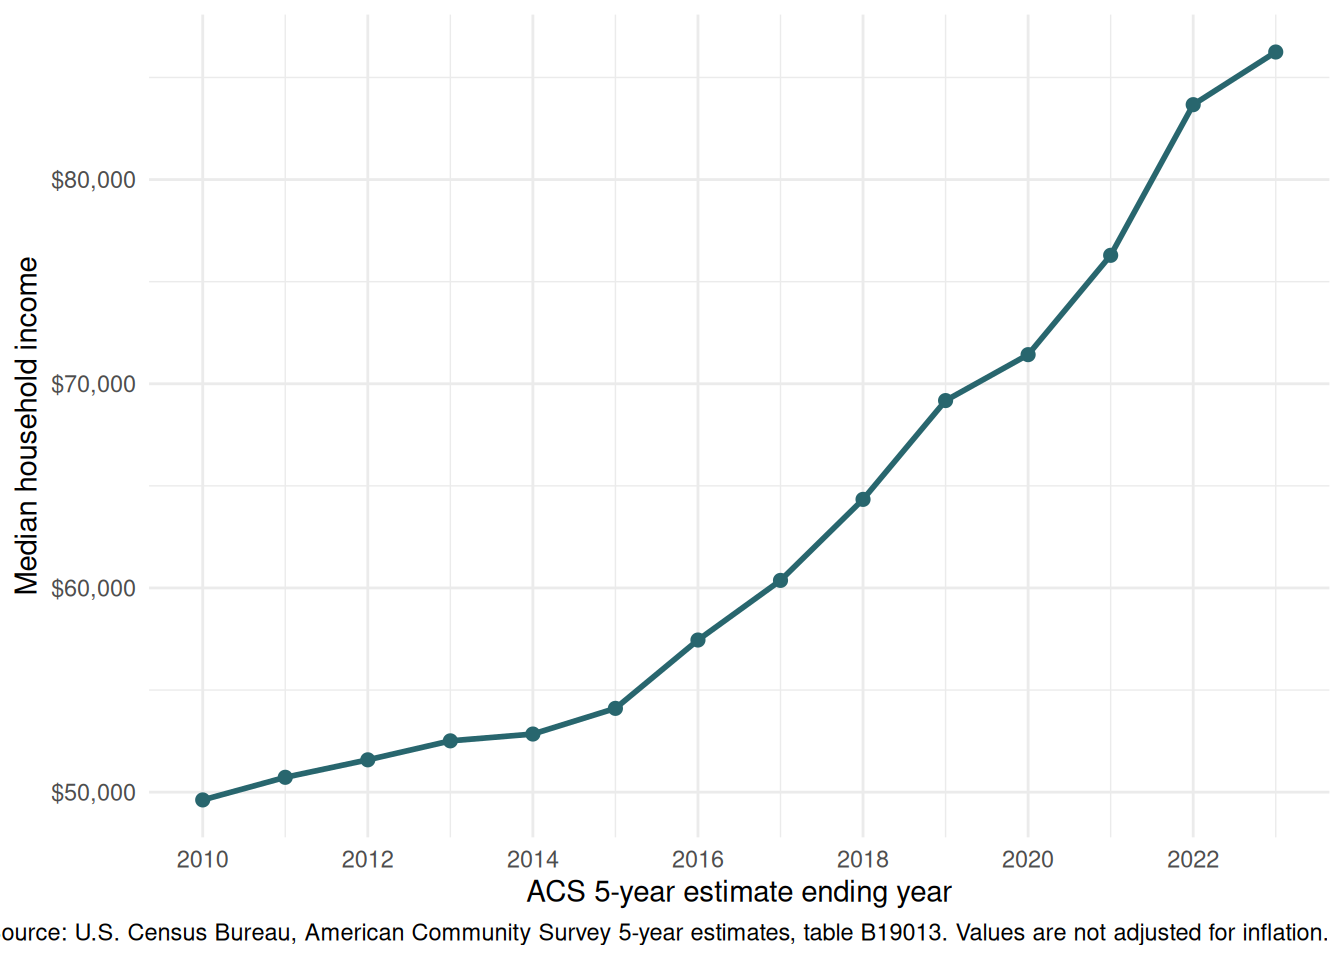
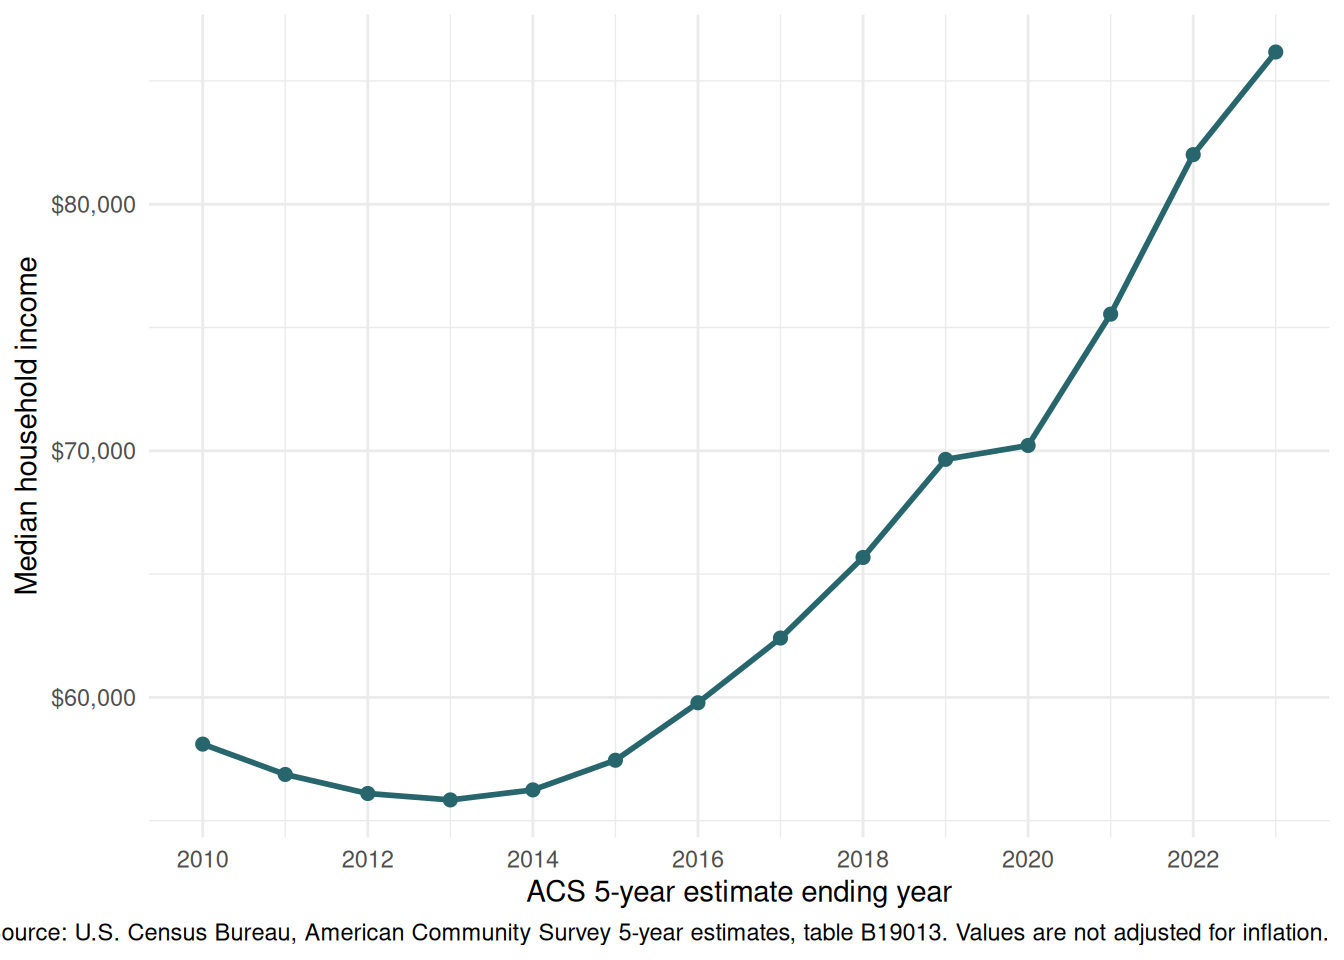
Built site for gh-pages

diff --git a/index.html b/index.html
@@ -7,7 +7,7 @@
 <meta name="viewport" content="width=device-width, initial-scale=1.0, user-scalable=yes">
 
 
-<title>Has household income changed in Multnomah County? – Census Maps</title>
+<title>Has household income changed in Collier County? – Census Maps</title>
 <style>
 /* Default styles provided by pandoc.
 ** See https://pandoc.org/MANUAL.html#variables-for-html for config info.
@@ -157,7 +157,7 @@ pre > code.sourceCode > span > a:first-child::before { text-decoration: underlin
 
 <header id="title-block-header" class="quarto-title-block default">
 <div class="quarto-title">
-<h1 class="title">Has household income changed in Multnomah County?</h1>
+<h1 class="title">Has household income changed in Collier County?</h1>
 </div>
 
 
@@ -174,7 +174,7 @@ pre > code.sourceCode > span > a:first-child::before { text-decoration: underlin
 </header>
 
 
-<p>Median household income is one way to track how a community’s finances change. This small project looks at Multnomah County, Oregon, using one ACS estimate for each year from 2010 through 2023.</p>
+<p>Median household income is one way to track how a community’s finances change. This small project looks at Collier County, Florida, using one ACS estimate for each year from 2010 through 2023.</p>
 <div class="cell">
 <div class="code-copy-outer-scaffold"><div class="sourceCode cell-code" id="cb1"><pre class="sourceCode r code-with-copy"><code class="sourceCode r"><span id="cb1-1"><a href="#cb1-1" aria-hidden="true" tabindex="-1"></a>income <span class="ot">&lt;-</span> readr<span class="sc">::</span><span class="fu">read_csv</span>(<span class="st">"data/median_income.csv"</span>, <span class="at">show_col_types =</span> <span class="cn">FALSE</span>)</span>
 <span id="cb1-2"><a href="#cb1-2" aria-hidden="true" tabindex="-1"></a></span>

diff --git a/about.html b/about.html
@@ -145,7 +145,7 @@ ul.task-list li input[type="checkbox"] {
 </header>
 
 
-<p>This site uses the U.S. Census Bureau’s American Community Survey (ACS) 5-year estimates to look at median household income in Multnomah County, Oregon. The series runs from 2010 through 2023; dollar values are not adjusted for inflation, and the 5-year estimates overlap.</p>
+<p>This site uses the U.S. Census Bureau’s American Community Survey (ACS) 5-year estimates to look at median household income in Collier County, Florida. The series runs from 2010 through 2023; dollar values are not adjusted for inflation, and the 5-year estimates overlap.</p>
 <section id="reproduce-the-analysis" class="level2">
 <h2 class="anchored" data-anchor-id="reproduce-the-analysis">Reproduce the analysis</h2>
 <p>The download step is separate from the website:</p>
@@ -154,7 +154,7 @@ ul.task-list li input[type="checkbox"] {
 <li>Run <code>Rscript data-raw/download_income.R</code> to create <code>data/median_income.csv</code>.</li>
 <li>Run <code>quarto render</code> to rebuild the website. The chart in <code>index.qmd</code> reads that CSV.</li>
 </ol>
-<p>The downloader requests ACS table <code>B19013</code> (median household income) for Multnomah County. The margin of error is included in the CSV.</p>
+<p>The downloader requests ACS table <code>B19013</code> (median household income) for Collier County. The margin of error is included in the CSV.</p>
 
 
 </section>
